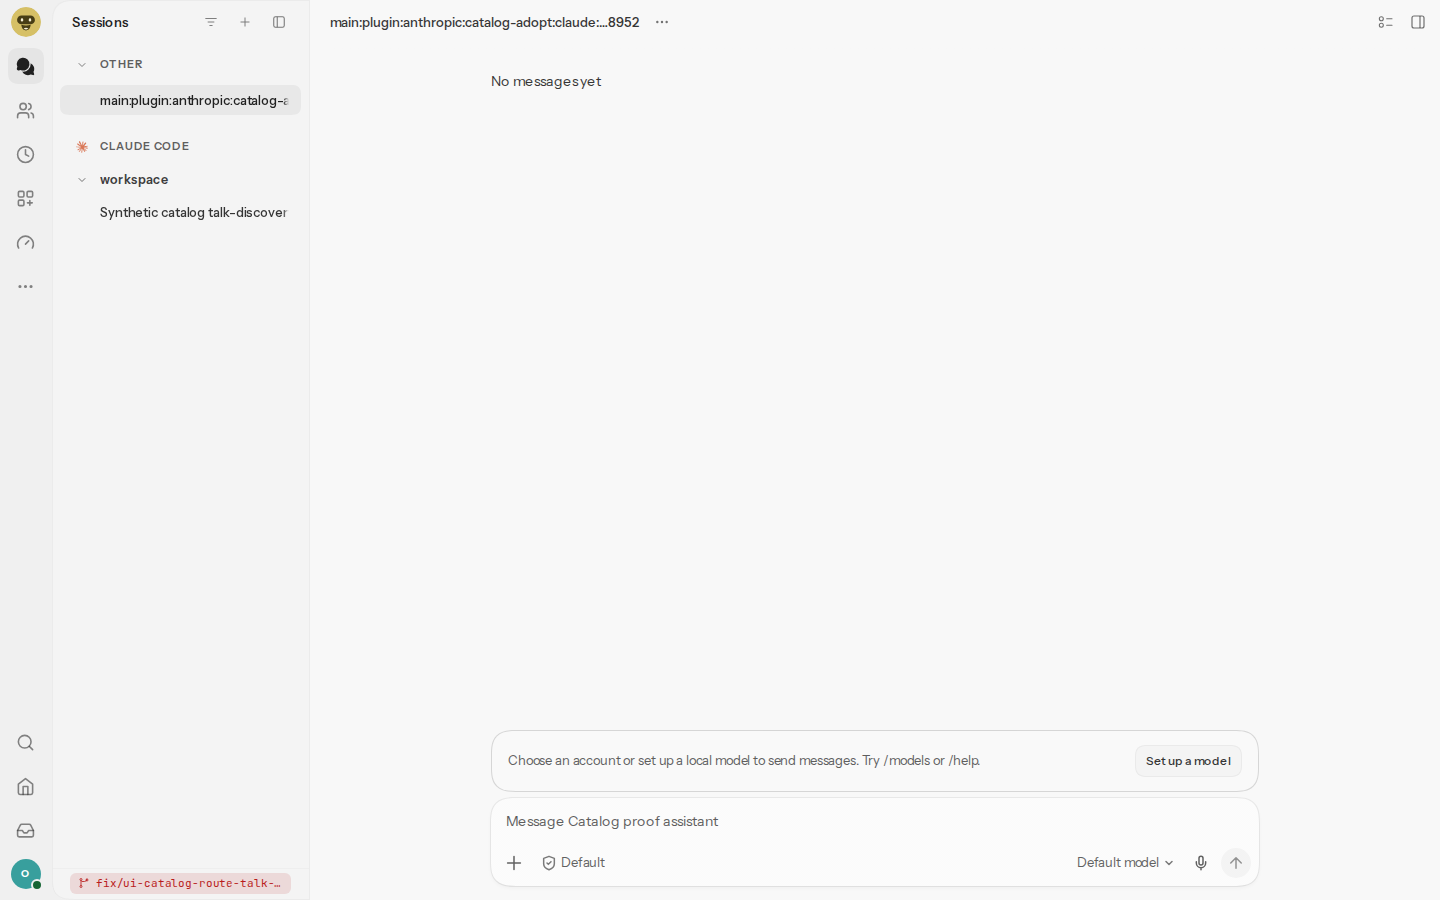
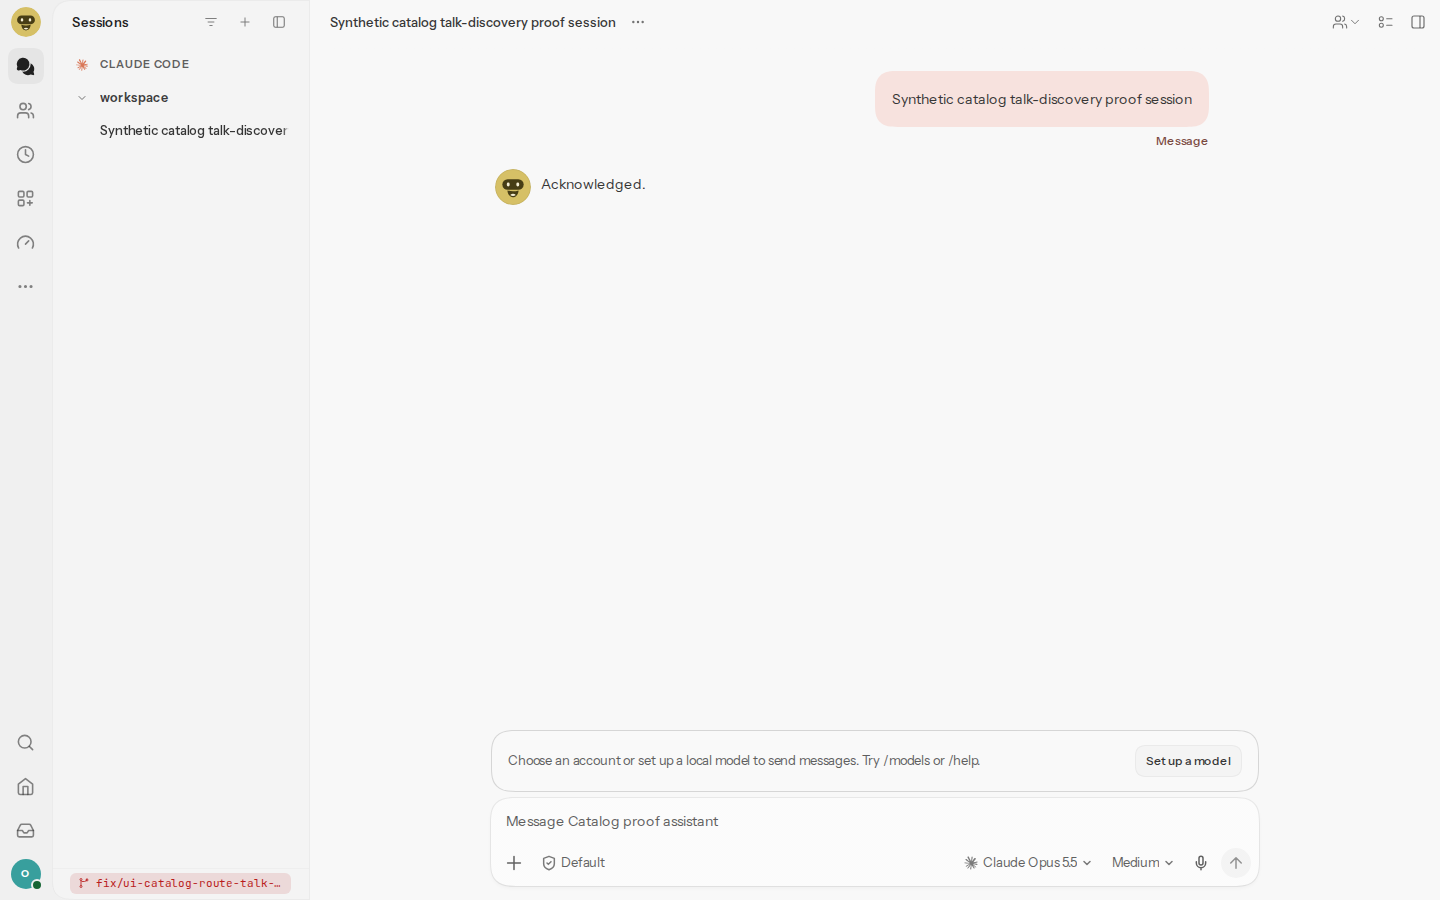
proof(ui): exact adopted-key discovery + retained transcript
Fix the adoption capture: navigate to the exact route for the key
sessions.catalog.continue returns (no duplicated agent segment), assert the
wire talk.catalog.sessionKey equals that exact key, and show the adopted
session's chat.history retains the imported Claude transcript.

diff --git a/proof/catalog-talk-discovery/README.md b/proof/catalog-talk-discovery/README.md
@@ -32,20 +32,23 @@ hook. Tokens, state-root and home paths are redacted.
 | Run  | Build                                  | catalog-keyed `talk.catalog` (open / reopen / focus) | Adoption |
 |------|----------------------------------------|------------------------------------------------------|----------|
 | BASE | `5c44c9cc4d9~1` picker (fix reverted)  | **1 / 1 / 0 → bug reproduces**                        | n/a      |
-| HEAD | `cf79f328ff3` (fix)                    | **0 / 0 / 0**                                         | discovery resumes with a non-catalog key |
+| HEAD | `cf79f328ff3` (fix)                    | **0 / 0 / 0**                                         | discovery resumes with the exact adopted key |
 
 - **BASE (`base/proof.json`):** opening the catalog route sends
   `talk.catalog { sessionKey: "agent:main:catalog:claude:gateway%3Alocal:11111111-…" }`,
   and reopening sends it again — the catalog key reaches Talk discovery twice.
 - **HEAD (`head/proof.json`):** zero `:catalog:` talk requests across open,
-  reopen, and a focus refresh. After a real `sessions.catalog.continue`
-  adoption returns a real chat key and the pane navigates to it, discovery
-  resumes scoped to that non-catalog key
-  (`agent:main:main:plugin:anthropic:catalog-adopt:claude:…`).
+  reopen, and a focus refresh. A real `sessions.catalog.continue` adoption
+  returns the chat key
+  `agent:main:plugin:anthropic:catalog-adopt:claude:666ff6cc…`; navigating to
+  that key's route (`/chat/main/plugin/anthropic/catalog-adopt/claude/666ff6cc…`)
+  resumes discovery with a `talk.catalog` whose `sessionKey` **exactly equals**
+  the key adoption returned, and the adopted session's `chat.history` retains the
+  imported Claude transcript (`head/adopted-history.json`).
 
 The only session keys HEAD ever sends to Talk are ordinary, non-catalog keys
-(`agent:main:main` and the adopted chat key); the catalog route key is never
-sent.
+(`agent:main:main` and the exact adopted chat key); the catalog route key is
+never sent.
 
 ## Files
 
@@ -55,6 +58,8 @@ sent.
   Control UI at the asserted states.
 - `head/catalog-list.json`, `base/catalog-list.json` — the real Anthropic catalog
   listing the synthetic Claude session (proves the catalog provider is live).
+- `head/adopted-history.json` — the adopted session's `chat.history`, retaining
+  the imported Claude transcript.
 - `head/gateway.private.log` — redacted Gateway log.
 
 ## Reproduce
